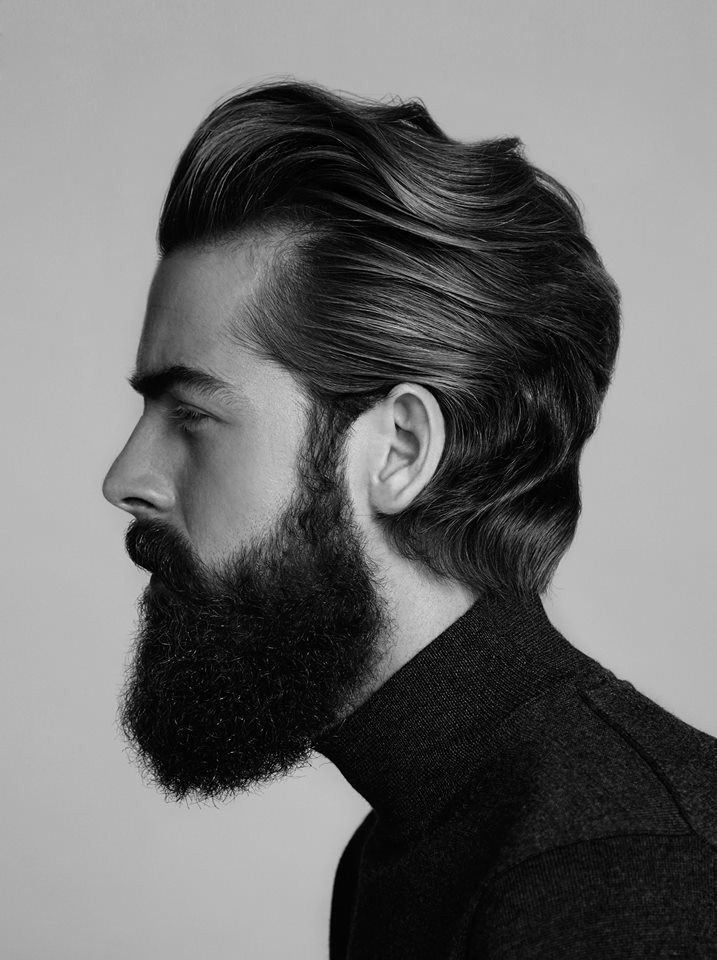
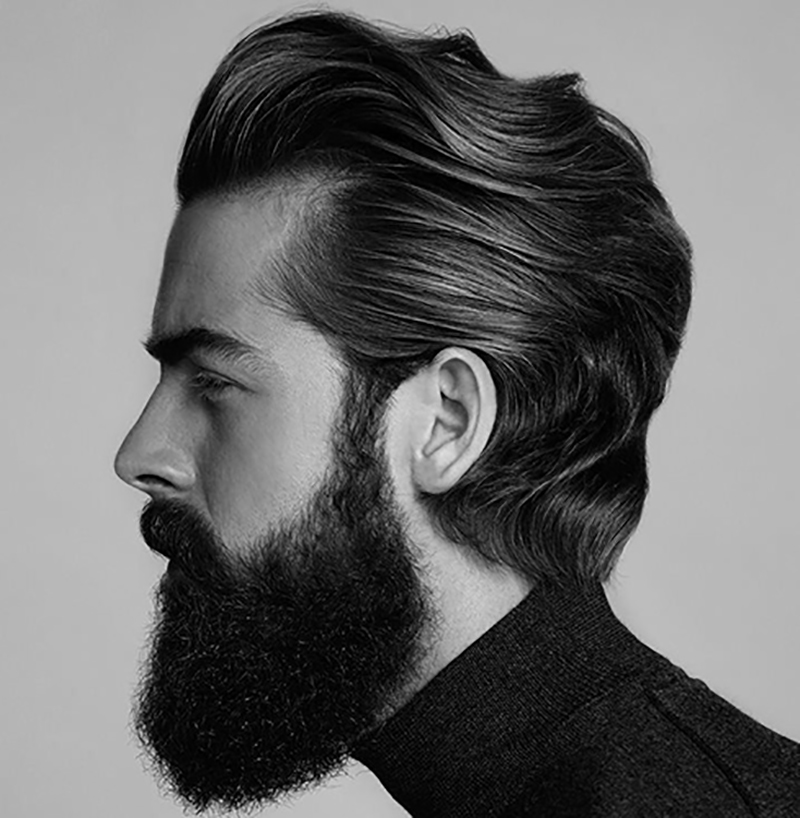
added pictures

diff --git a/index.html b/index.html
@@ -59,7 +59,7 @@
                  <div class="overlay--services">
                    <p class="services__more-info-link">More Info</p>
                  </div>
-                 <img src="images/mens-services__image.jpg" alt="mens services image">
+                 <img src="images/mens-img2.jpg" alt="mens services image">
                </div>
                <div class="services-text__container">
                  <div class="services-text">
@@ -75,7 +75,7 @@
                  <div class="overlay--services">
                    <p class="services__more-info-link">More Info</p>
                  </div>
-                 <img src="images/womens-services__image.jpg" alt="womens services image">
+                 <img src="images/womens-home-img-compressed.jpg" alt="womens services image">
                </div>
                <div class="services-text__container">
                  <div class="services-text">
